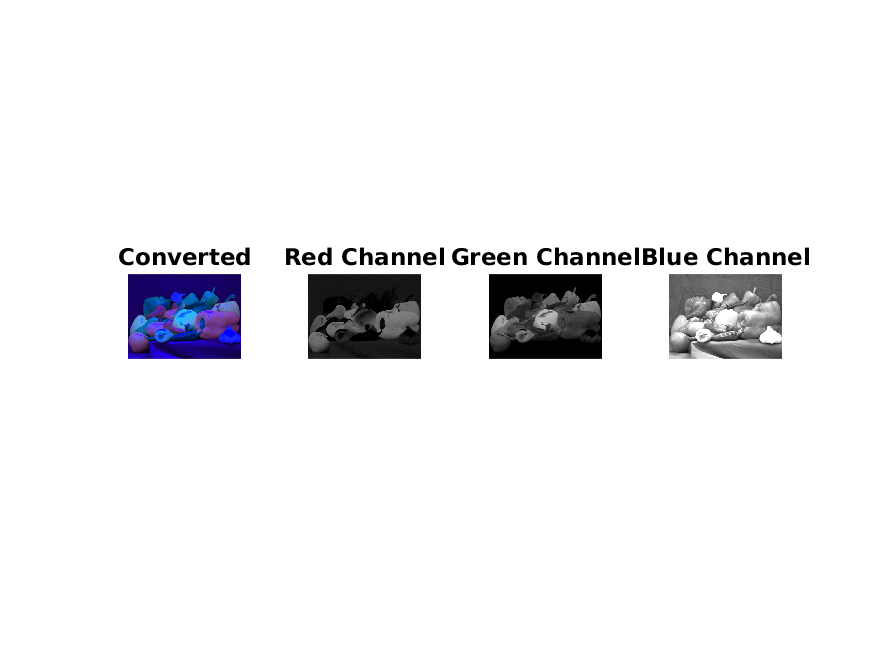
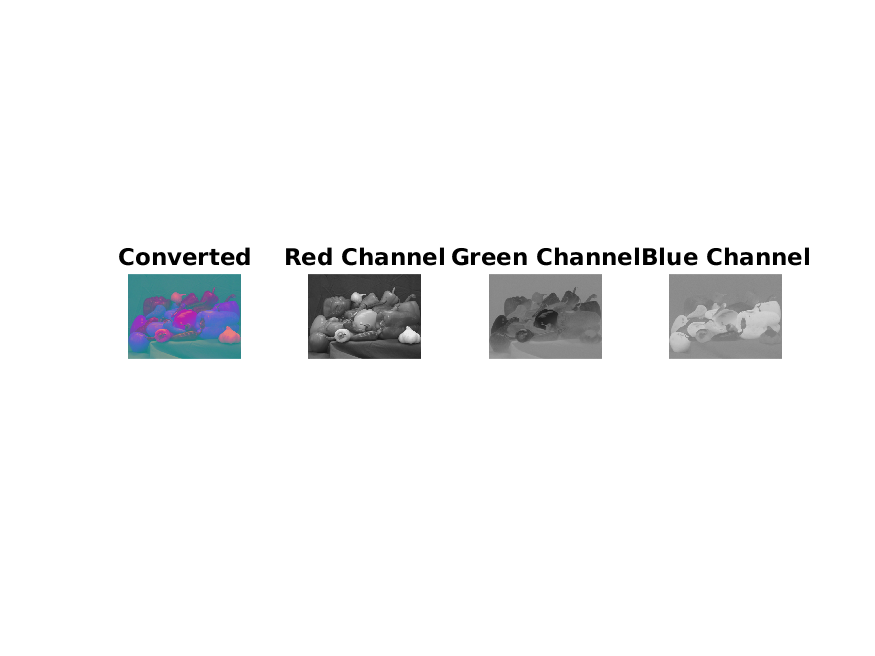
implementation for 2, 3 and 4 is done

diff --git a/Lab1_Photometric_Color/intrinsic_images/iid_image_formation.m b/Lab1_Photometric_Color/intrinsic_images/iid_image_formation.m
@@ -1,0 +1,69 @@
+clear
+clc
+close all
+
+image = imread('ball.png');
+reflectance = imread('ball_reflectance.png');
+shade = imread('ball_shading.png');
+
+% size(reflectance)
+% size(shade)
+
+[height, width, depth] = size(image);
+converted_image = uint16(zeros(height, width, depth));
+
+for d = 1:depth
+%     val = uint16(reflectance(:, :, d)).*uint16(shade(:, :));
+    converted_image(:, :, d) = reflectance(:, :, d).*shade(:, :);
+end
+
+% pls_stahp = false;
+% for row = 1:height
+%     for col = 1:width
+%         for d = 1:depth
+%             if image(row, col, d) > 0
+%                 "******************************"
+%                 i = image(row, col, 1)
+%                 r = reflectance(row, col, :)
+%                 s = shade(row, col)
+%                 uint16(reflectance(row, col, 1)).*uint16(s)
+%                 
+%                 i2 = image(row, col, 2)
+%                 uint16(reflectance(row, col, 2)).*uint16(s)
+%                 
+%                 i3 = image(row, col, 3)
+%                 uint16(reflectance(row, col, 3)).*uint16(s)
+%                 pls_stahp = true;
+%                 break
+%             end
+%         end
+%         if pls_stahp == true
+%             break
+%         end
+%     end
+%     if pls_stahp == true
+%         break
+%     end
+% end
+
+fig1 = figure;
+subplot(1, 4, 1);
+imshow(image)
+title("Original image");
+pause(1);
+
+subplot(1, 4, 2);
+imshow(reflectance);
+title("Reflectance");
+pause(1);
+
+subplot(1, 4, 3);
+imshow(shade);
+title("Shading");
+pause(1);
+
+subplot(1, 4, 4);
+imshow(converted_image);
+title("Converted image");
+
+

diff --git a/Lab1_Photometric_Color/color_constancy/awb.m b/Lab1_Photometric_Color/color_constancy/awb.m
@@ -1,0 +1,38 @@
+clear
+clc
+close all
+
+image = imread('awb.jpg');
+
+
+fig1 = figure;
+% imshow(image, "InitialMagnification", 25)
+
+subplot(1, 4, 1);
+imshow(image);
+title("Original");
+pause(1)
+
+% undo the gamma correction in jpg
+image_linear = rgb2lin(image);
+
+subplot(1, 4, 2);
+imshow(image);
+title("Linear");
+pause(1);
+
+percentiles = 10;
+illuminant = illumgray(image_linear, percentiles);
+
+converted_image_linear = chromadapt(image_linear, illuminant, 'ColorSpace','linear-rgb');
+
+converted_image = lin2rgb(converted_image_linear);
+
+subplot(1, 4, 3);
+imshow(converted_image);
+title("Converted");
+
+
+
+
+

diff --git a/Lab1_Photometric_Color/colorspace/main.m b/Lab1_Photometric_Color/colorspace/main.m
@@ -7,7 +7,7 @@ close all
 I = imread('peppers.png');
 
 J = ConvertColorSpace(I,'opponent');
- %{
+ 
 close all
 J2 = ConvertColorSpace(I,'rgb');
 
@@ -16,7 +16,7 @@ J3 = ConvertColorSpace(I,'hsv');
 
 close all
 J4 = ConvertColorSpace(I,'ycbcr');
-
+%{
 close all
 J5 = ConvertColorSpace(I,'gray');
 %}
